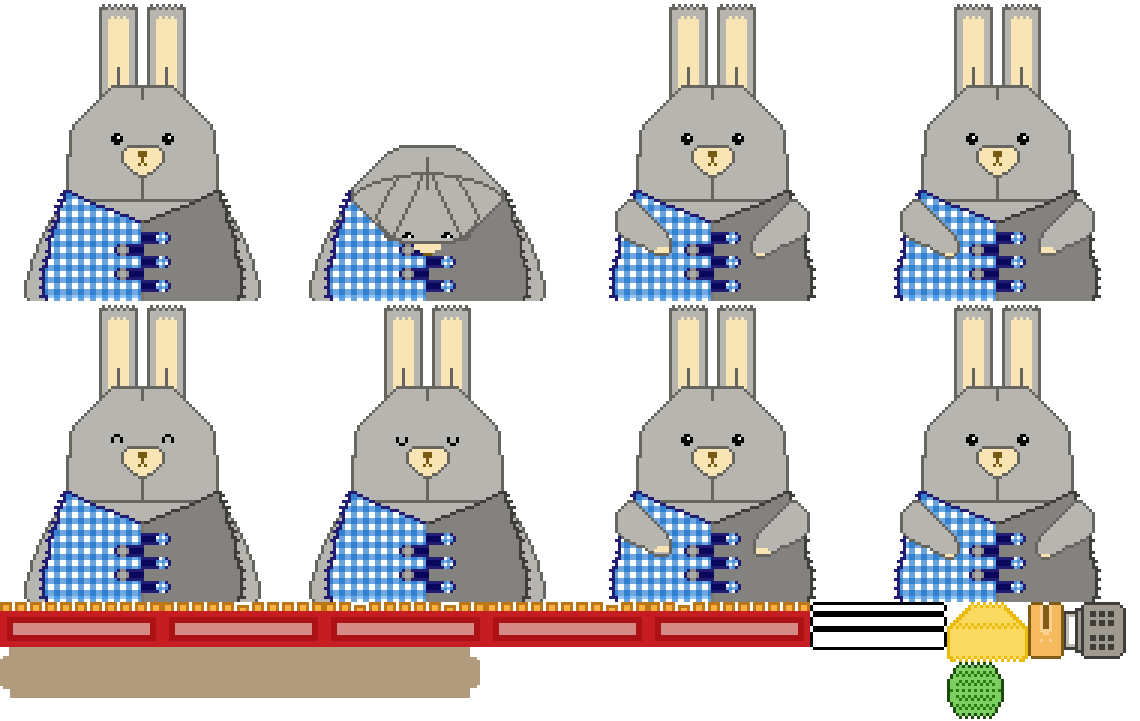
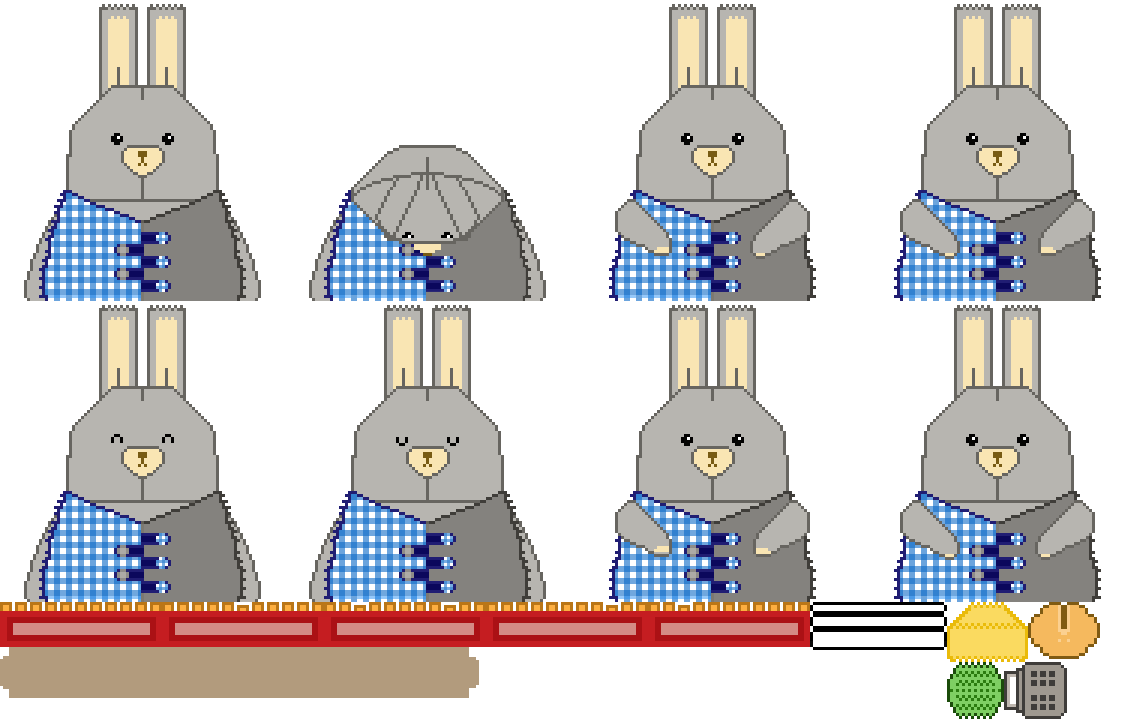
Add game transition messages

Changed region(s): [[0.8596, 0.8239, 1.0, 1.0]]

diff --git a/fluffy-typist/scripts/level1.js b/fluffy-typist/scripts/level1.js
@@ -75,13 +75,13 @@ function getLevel1Info(tilesheet) {
     type: Types.TEXT,
     text: '_',
     font: 'normal bold 30px nokia',
-    color: Colors.BLACK,
+    color: Colors.DARK_BROWN,
   });
   const inputText = createSprite({
     type: Types.TEXT,
     text: '',
     font: 'normal bold 30px nokia',
-    color: Colors.BLACK,
+    color: Colors.DARK_BROWN,
     x: 27,
   });
   const wordBackgrounds = [
@@ -130,7 +130,7 @@ function getLevel1Info(tilesheet) {
         INITIAL: {
           sourceX: 1028,
           sourceY: 602,
-          sourceWidth: 12,
+          sourceWidth: 24,
           sourceHeight: 57,
         },
       },
@@ -140,7 +140,7 @@ function getLevel1Info(tilesheet) {
       visible: false,
       states: {
         INITIAL: {
-          sourceX: 1031,
+          sourceX: 1049,
           sourceY: 602,
           sourceWidth: 30,
           sourceHeight: 57,
@@ -152,14 +152,31 @@ function getLevel1Info(tilesheet) {
       visible: false,
       states: {
         INITIAL: {
-          sourceX: 1052,
+          sourceX: 1079,
           sourceY: 602,
-          sourceWidth: 12,
-          sourceHeight: 57,
+          sourceWidth: 21,
+          sourceHeight: 58,
         },
       },
     }],
   ];
+  const messageBackground = createSprite({
+    type: Types.RECTANGULAR,
+    visible: false,
+    color: transparentize(Colors.LIGHT_YELLOW, 0.8),
+  });
+  const endGameMessage = createSprite({
+    type: Types.TEXT,
+    font: "normal bold 55px nokia",
+    visible: false,
+    color: Colors.DARK_BROWN,
+  });
+  const endGameInstruction = createSprite({
+    type: Types.TEXT,
+    font: "normal bold 30px nokia",
+    visible: false,
+    color: Colors.DARK_BROWN,
+  });
   let sprites = [], totalWordsToSpawn = 0, speedIndex = 0, shouldRestart = false;
   return {
     ...stateBase,
@@ -169,7 +186,7 @@ function getLevel1Info(tilesheet) {
     },
     maxMissedCount: 5,
     update: function(gameInfo) {
-      const speeds = [0.3, 0.5, 0.7];
+      const speeds = [0.3, 0.5, 1];
       const limit = [5, 10, 15];
       sprites[0].width = gameInfo.canvas.width;
       sprites[0].height = gameInfo.canvas.height;
@@ -180,17 +197,6 @@ function getLevel1Info(tilesheet) {
       inputContent.width = gameInfo.canvas.width - 10 * 2;
       typewriter[typewriter.state].x = centerSpriteHorizontally(gameInfo.canvas, typewriter);
       typewriter[typewriter.state].y = gameInfo.canvas.height - typewriter.sourceHeight * typewriter.scale;
-      
-      if (shouldRestart) {
-        const stateBeforeReset = fluffy.state;
-        gameInfo.switchState(stateBeforeReset === fluffy.SAD ? 1 : 3);
-        return;
-      }
-
-      if (fluffy.state === fluffy.SAD) {
-        return;
-      }
-
       let width = getTextWidth(gameInfo.canvas, inputText);
       if (width >= inputContent.width - 100) {
         inputText.text = inputText.text.slice(0, -1);
@@ -199,6 +205,32 @@ function getLevel1Info(tilesheet) {
       underscore.x = inputText.x + width;
       underscore.y = inputContent.y + 12;
       inputText.y = underscore.y;
+
+      if (shouldRestart) {
+        const stateBeforeReset = fluffy.state;
+        gameInfo.switchState(stateBeforeReset === fluffy.SAD ? 1 : 3);
+        return;
+      }
+
+      if (fluffy.state === fluffy.SAD || fluffy.state === fluffy.HAPPY) {
+        messageBackground.visible = true;
+        endGameMessage.visible = true;
+        endGameInstruction.visible = true;
+        endGameMessage.text = fluffy.state === fluffy.SAD ? "Game Over" : "Level Cleared!";
+        endGameInstruction.text = fluffy.state === fluffy.SAD ?
+          "Press ENTER to go back to main page" :
+          "Press ENTER to go to the next level";
+        messageBackground.width = 0.75 * gameInfo.canvas.width;
+        messageBackground.height = 0.75 * gameInfo.canvas.height;
+        messageBackground.x = centerSpriteHorizontally(gameInfo.canvas, messageBackground);
+        messageBackground.y = centerSpriteVertically(gameInfo.canvas, messageBackground);
+        endGameMessage.x = centerSpriteHorizontally(gameInfo.canvas, endGameMessage);
+        endGameMessage.y = centerSpriteVertically(gameInfo.canvas, endGameMessage);
+        endGameInstruction.x = centerSpriteHorizontally(gameInfo.canvas, endGameInstruction);
+        endGameInstruction.y = endGameMessage.y + 80;
+        return;
+      }
+
       let spawnedCount = 0;
       let missedCount = 0;
       let wordEndOfLifeCount = 0;
@@ -237,6 +269,9 @@ function getLevel1Info(tilesheet) {
         if (sprite.type === Types.WORD_SPAWN) {
           if (core.y > gameInfo.canvas.height) {
             sprite.visible = false;
+            [3, 2, 1].forEach(idx => {
+              sprites[i-idx].visible = false;
+            });
             missedCount++;
           }
           if (core.timer === undefined) {
@@ -254,7 +289,6 @@ function getLevel1Info(tilesheet) {
         fluffy.state = fluffy.SAD;
       } else if (wordEndOfLifeCount === totalWordsToSpawn) {
         fluffy.state = fluffy.HAPPY;
-        shouldRestart = true;
       }
     },
     listeners: {
@@ -266,15 +300,19 @@ function getLevel1Info(tilesheet) {
           inputText.text = inputText.text.slice(0, -1);
           fluffy.state = fluffy.BOW;
         } else if (e.key === "Enter") {
-          if (fluffy.state === fluffy.SAD) {
+          if (fluffy.state === fluffy.SAD || fluffy.state === fluffy.HAPPY) {
             shouldRestart = true;
             return;
           }
-          sprites.forEach(sprite => {
-            if (sprite.type === Types.WORD_SPAWN && sprite.text === inputText.text) {
+          sprites.forEach((sprite, i) => {
+            if (sprite.visible
+              && sprite.type === Types.WORD_SPAWN
+              && sprite.text === inputText.text) {
               inputText.text = '';
               sprite.visible = false;
-              sprite.timer = undefined;
+              [3, 2, 1].forEach(idx => {
+                sprites[i-idx].visible = false;
+              });
             }
           });
         }
@@ -289,17 +327,28 @@ function getLevel1Info(tilesheet) {
 
   function initSprites() {
     fluffy.state = fluffy.INITIAL;
+    messageBackground.visible = false;
+    endGameMessage.visible = false;
+    endGameInstruction.visible = false;
     inputText.text = '';
-    sprites = [{
-      ...rectBase,
-      color: Colors.LEMON,
-    }, fluffy, typewriter, inputStart, inputContent, underscore, inputText];
+    sprites = [
+      {
+        ...rectBase,
+        color: Colors.LEMON,
+      },
+      fluffy,
+      typewriter,
+      inputStart,
+      inputContent,
+      underscore,
+      inputText,
+    ];
     totalWordsToSpawn = 0, speedIndex = 0, shouldRestart = false;
     selectionGenerator.randomize(categories).forEach((result, i) => {
       // Alternate bread & butter background
       wordBackgrounds[i % 2].forEach(sprite => {
         const bg = createSprite(sprite);
-        bg[bg.state].y = i - bg.sourceHeight * bg.scale/3;
+        bg[bg.state].y = i - 60 - bg.sourceHeight * bg.scale/3;
         bg[bg.state].timer = i * 60;
         bg[bg.state].vy = 0;
         sprites.push(bg);
@@ -308,15 +357,18 @@ function getLevel1Info(tilesheet) {
         ...textBase,
         type: Types.WORD_SPAWN,
         x: 0,
-        y: i,
+        y: i - 60,
         vy: 0,
         text: result.word,
         font: 'normal bold 30px nokia',
-        color: Colors.DARK_YELLOW,
+        color: Colors.DARK_BROWN,
         visible: false,
         timer: i * 60,
       });
       totalWordsToSpawn++;
     });
+    sprites.push(messageBackground);
+    sprites.push(endGameMessage);
+    sprites.push(endGameInstruction);
   }
 }

diff --git a/fluffy-typist/scripts/gameEnd.js b/fluffy-typist/scripts/gameEnd.js
@@ -1,8 +1,28 @@
 function getGameEndInfo(ts1, ts2) {
+  const messageBackground = createSprite({
+    type: Types.RECTANGULAR,
+    visible: true,
+    color: transparentize(Colors.DARK_ORANGE, 0.8),
+  });
   const gameEndMsg = createSprite({
     type: Types.TEXT,
     text: 'Restaurant Menu finished!',
     font: 'normal bold 50px nokia',
+    color: Colors.DARK_BROWN,
+    visible: true,
+  });
+  const gameEndDesc1 = createSprite({
+    type: Types.TEXT,
+    text: 'Fluffy is grateful for your help!',
+    font: 'normal bold 30px nokia',
+    color: Colors.DARK_BROWN,
+    visible: true,
+  });
+  const gameEndDesc2 = createSprite({
+    type: Types.TEXT,
+    text: 'PRESS Enter to restart the game',
+    font: 'normal bold 30px nokia',
+    color: Colors.DARK_BROWN,
     visible: true,
   });
   const story3 = createSprite({
@@ -41,15 +61,26 @@ function getGameEndInfo(ts1, ts2) {
     sprites: [
       story3,
       story4,
+      messageBackground,
       gameEndMsg,
+      gameEndDesc1,
+      gameEndDesc2,
     ],
     update: (gameInfo) => {
       if (shouldSwitch) {
         gameInfo.switchState(1);
         shouldSwitch = false;
       } else {
-        gameEndMsg.x = centerTextHorizontally(gameInfo.canvas, gameEndMsg);
-        gameEndMsg.y = centerTextVertically(gameInfo.canvas, gameEndMsg);
+        messageBackground.width = 0.75 * gameInfo.canvas.width;
+        messageBackground.height = 0.75 * gameInfo.canvas.height;
+        messageBackground.x = centerSpriteHorizontally(gameInfo.canvas, messageBackground);
+        messageBackground.y = centerSpriteVertically(gameInfo.canvas, messageBackground);
+        gameEndMsg.x = centerSpriteHorizontally(gameInfo.canvas, gameEndMsg);
+        gameEndMsg.y = centerSpriteVertically(gameInfo.canvas, gameEndMsg);
+        gameEndDesc1.x = centerSpriteHorizontally(gameInfo.canvas, gameEndDesc1);
+        gameEndDesc1.y = gameEndMsg.y + 70;
+        gameEndDesc2.x = centerSpriteHorizontally(gameInfo.canvas, gameEndDesc2);
+        gameEndDesc2.y = gameEndDesc1.y + 50;
         [story3, story4].forEach(story => {
           story[story.state].scale = gameInfo.canvas.width/story.img.width;
           story[story.state].alpha = Math.max(0, Math.min(1, story[story.state].alpha + story[story.state].delta));

diff --git a/fluffy-typist/scripts/helper.js b/fluffy-typist/scripts/helper.js
@@ -16,23 +16,25 @@ getTextWidth = (canvas, sprite) => {
 }
 
 centerSpriteHorizontally = (canvas, sprite) => {
-  return canvas.width/2 - sprite.sourceWidth * sprite.scale/2;
+  if (sprite.type === Types.IMAGE) {
+    return canvas.width/2 - sprite.sourceWidth * sprite.scale/2;
+  } else if (sprite.type === Types.TEXT) {
+    return canvas.width/2 - getTextWidth(canvas, sprite)/2;
+  }
+  return canvas.width/2 - sprite.width/2;
 }
 
 centerSpriteVertically = (canvas, sprite) => {
-  return canvas.height/2 - sprite.sourceHeight * sprite.scale/2;
-}
-
-centerTextHorizontally = (canvas, sprite) => {
-  return canvas.width/2 - getTextWidth(canvas, sprite)/2;
-}
-
-centerTextVertically = (canvas, sprite) => {
-  const ctx = canvas.getContext("2d");
-  ctx.font = sprite.font;
-  const metrics = ctx.measureText(sprite.text);
-  const actualHeight = metrics.actualBoundingBoxAscent + metrics.actualBoundingBoxDescent;
-  return canvas.height/2 - actualHeight/2;
+  if (sprite.type === Types.IMAGE) {
+    return canvas.height/2 - sprite.sourceHeight * sprite.scale/2;
+  } else if (sprite.type === Types.TEXT) {
+    const ctx = canvas.getContext("2d");
+    ctx.font = sprite.font;
+    const metrics = ctx.measureText(sprite.text);
+    const actualHeight = metrics.actualBoundingBoxAscent + metrics.actualBoundingBoxDescent;
+    return canvas.height/2 - actualHeight/2;
+  }
+  return canvas.height/2 - sprite.height/2;
 }
 
 createSprite = (props) => {

diff --git a/fluffy-typist/scripts/bonusLevel.js b/fluffy-typist/scripts/bonusLevel.js
@@ -1,2 +1,37 @@
 function getBonusLevelInfo(tilesheet) {
+  const fluffy = createSprite({
+    type: Types.IMAGE,
+    img: tilesheet,
+    states: {
+      INITIAL: {
+        sourceWidth: 285,
+        sourceHeight: 301,
+      },
+      LEFT_PRESS: {
+        sourceWidth: 285,
+        sourceHeight: 301,
+        sourceX: 855,
+      },
+      RIGHT_PRESS: {
+        sourceWidth: 285,
+        sourceHeight: 301,
+        sourceX: 569,
+      },
+      HAPPY: {
+        sourceY: 301,
+        sourceWidth: 285,
+        sourceHeight: 301,
+      },
+      SAD: {
+        sourceX: 285,
+        sourceY: 301,
+        sourceWidth: 285,
+        sourceHeight: 301,
+      }
+    },
+  });
+
+  function initSprites() {
+    
+  }
 }

diff --git a/common/scripts/constants.js b/common/scripts/constants.js
@@ -3,10 +3,11 @@ const Colors = {
   WHITE: 'rgba(255, 255, 255, 1)',
   LIGHT_PURPLE: 'rgba(221, 215, 237, 1)',
   DARK_PURPLE: 'rgba(92, 50, 168, 1)',
-  DARK_YELLOW: 'rgba(91, 85, 1, 1)',
   LIGHT_BLUE: 'rgba(0, 193, 243, 1)',
   DARK_BLUE: 'rgba(0, 44, 103, 1)',
   GENERIC_GRAY: 'rgba(115, 147, 188, 1)',
   DARK_ORANGE: 'rgba(146, 113, 70, 1)',
   BLACK: 'rgba(0, 0, 0, 1)',
+  DARK_BROWN: 'rgba(80, 69, 56, 1)',
+  LIGHT_YELLOW: 'rgba(245, 243, 204, 1)',
 };

diff --git a/fluffy-typist/scripts/constants.js b/fluffy-typist/scripts/constants.js
@@ -38,7 +38,7 @@ artBase[artBase.INITIAL] = {
 const textBase = {
   ...spriteBase,
   type: Types.TEXT,
-  font: '',
+  font: 'normal bold 25px nokia',
   baseline: 'top',
   shadowColor: 'black',
   shadowBlur: 0,
